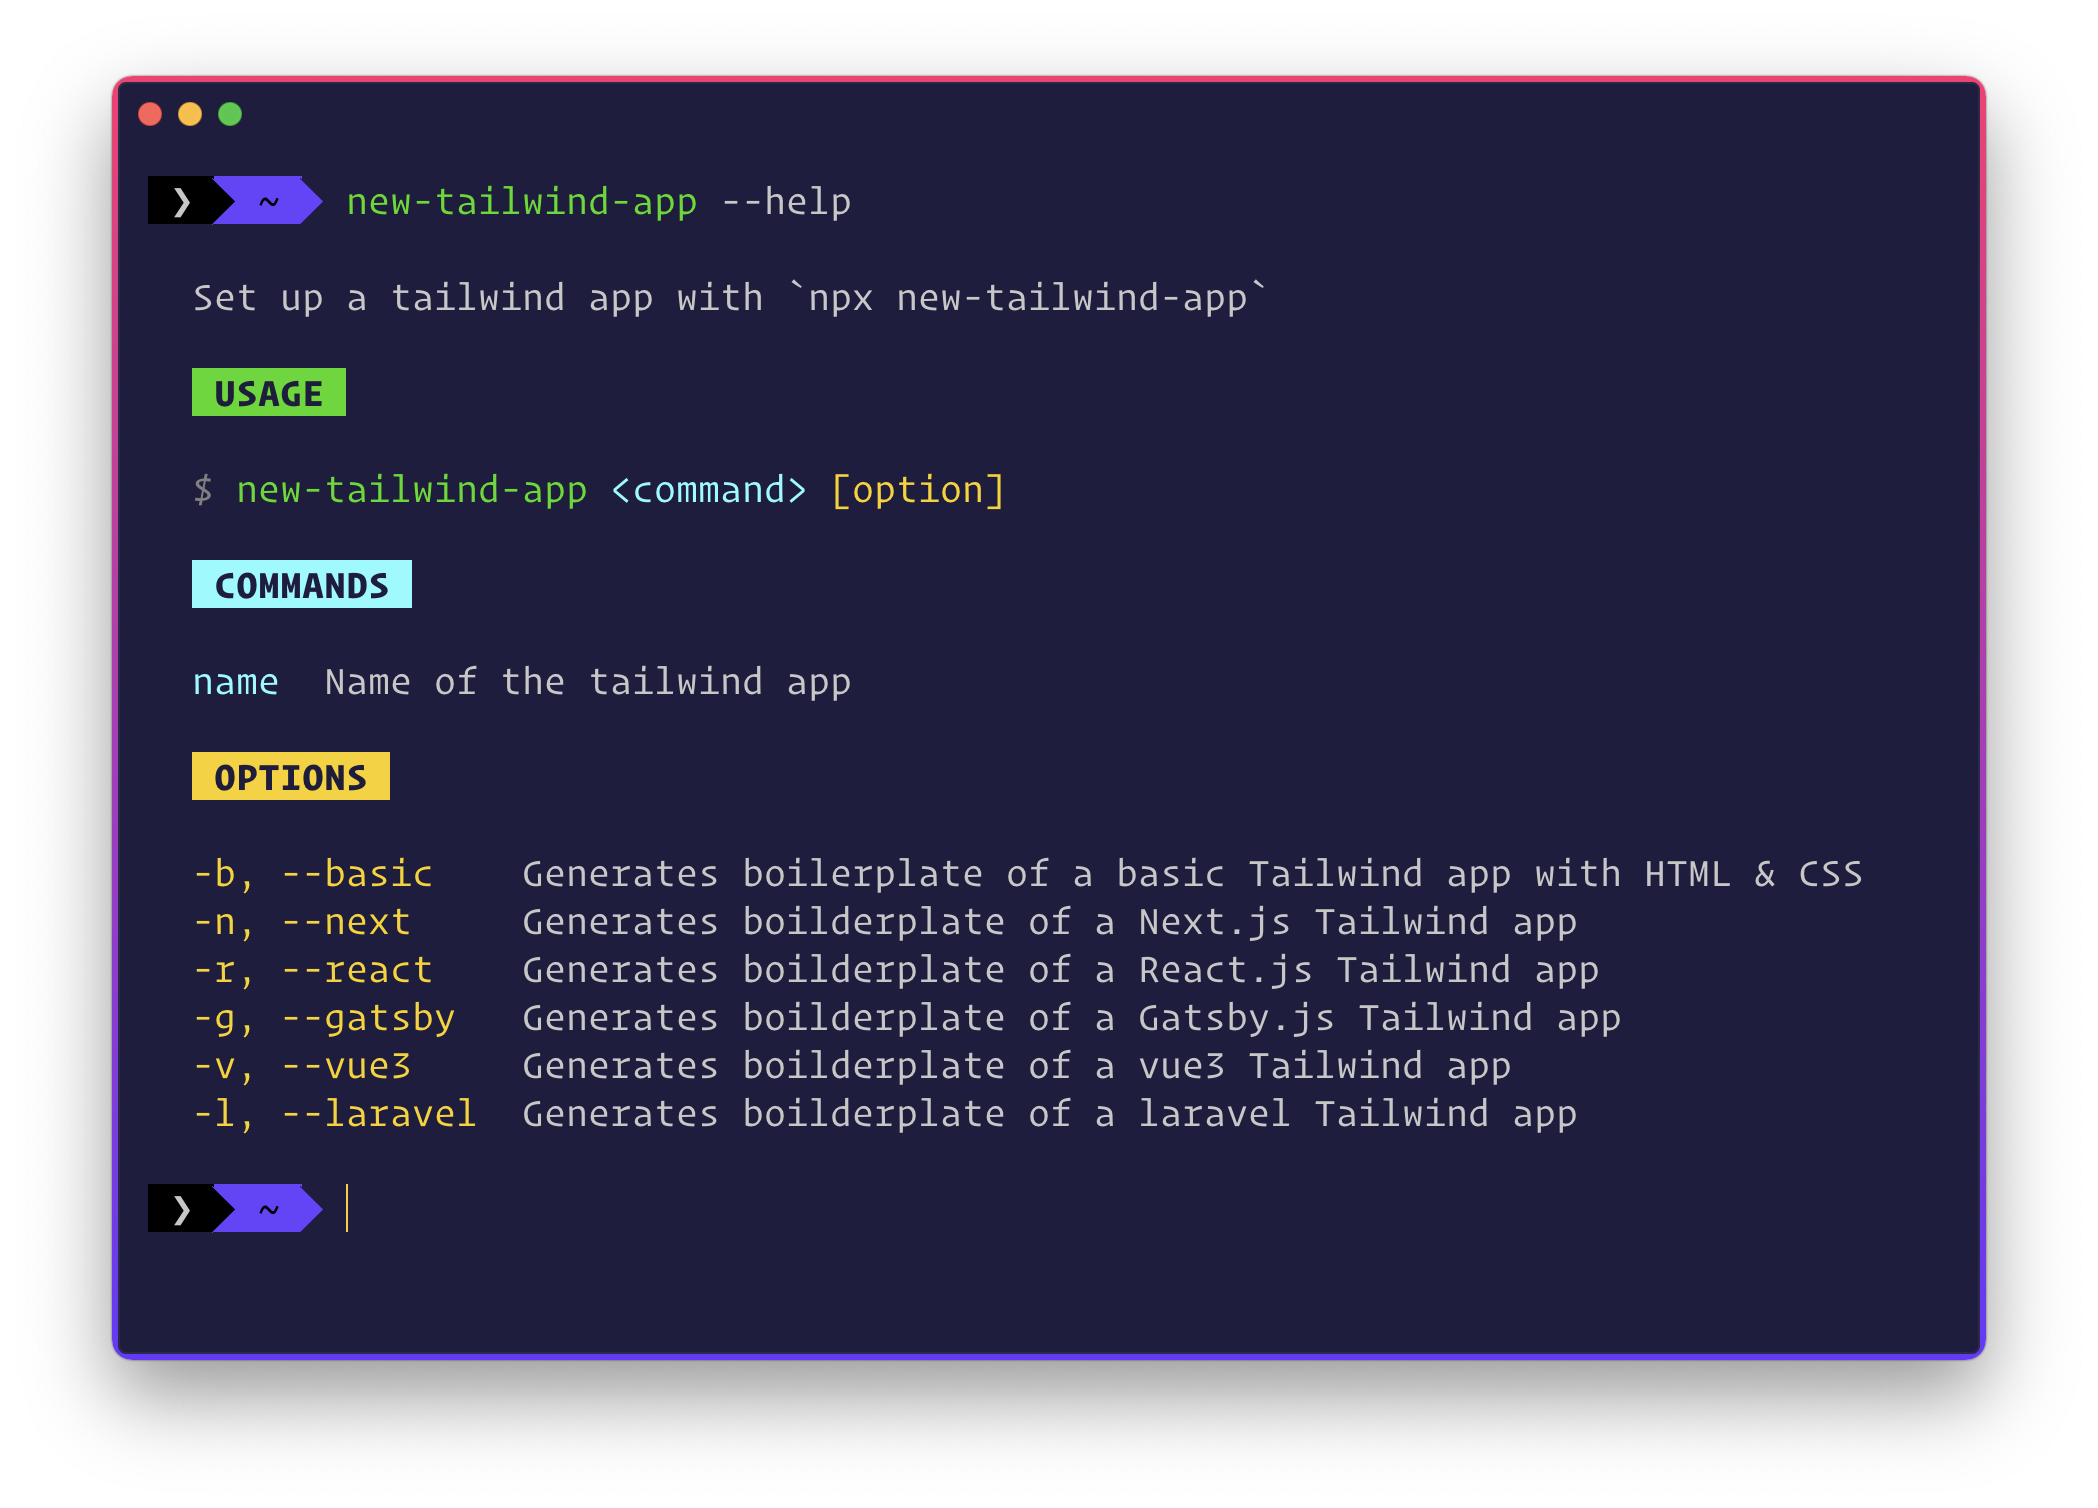
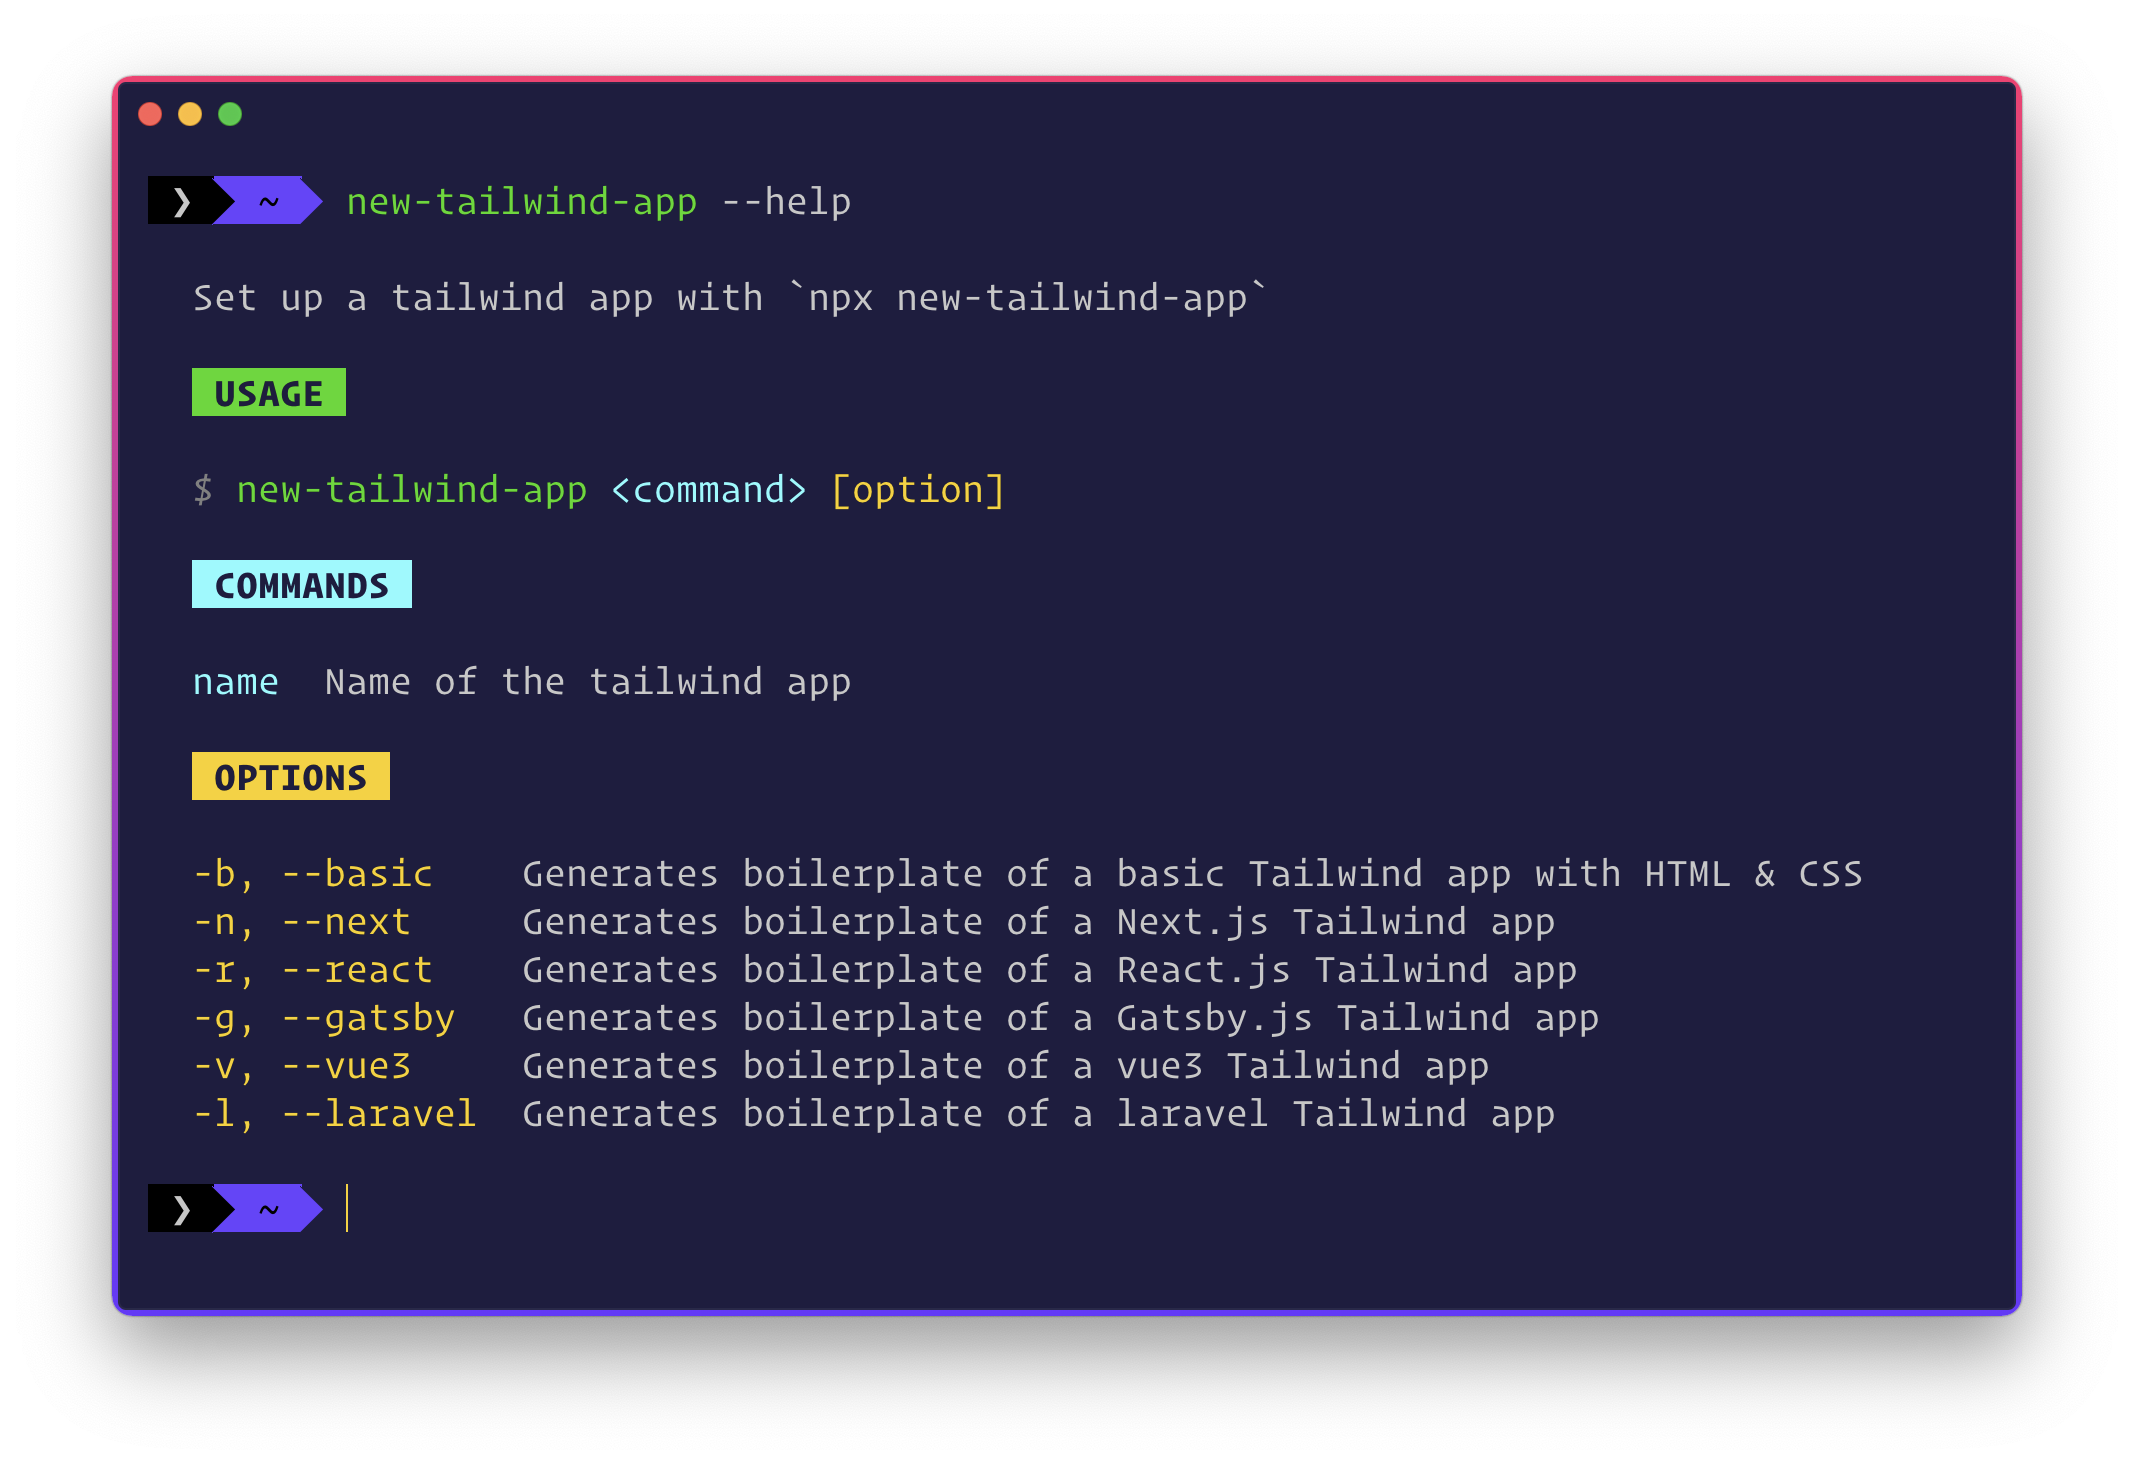
🐛 FIX: typo

diff --git a/utils/init.js b/utils/init.js
@@ -20,23 +20,23 @@ const cliHelpText = () => {
 			alias: `b`
 		},
 		next: {
-			desc: `Generates boilderplate of a Next.js Tailwind app`,
+			desc: `Generates boilerplate of a Next.js Tailwind app`,
 			alias: `n`
 		},
 		react: {
-			desc: `Generates boilderplate of a React.js Tailwind app`,
+			desc: `Generates boilerplate of a React.js Tailwind app`,
 			alias: `r`
 		},
 		gatsby: {
-			desc: `Generates boilderplate of a Gatsby.js Tailwind app`,
+			desc: `Generates boilerplate of a Gatsby.js Tailwind app`,
 			alias: `g`
 		},
 		vue3: {
-			desc: `Generates boilderplate of a vue3 Tailwind app`,
+			desc: `Generates boilerplate of a vue3 Tailwind app`,
 			alias: `v`
 		},
 		laravel: {
-			desc: `Generates boilderplate of a laravel Tailwind app`,
+			desc: `Generates boilerplate of a laravel Tailwind app`,
 			alias: `l`
 		}
 	};
